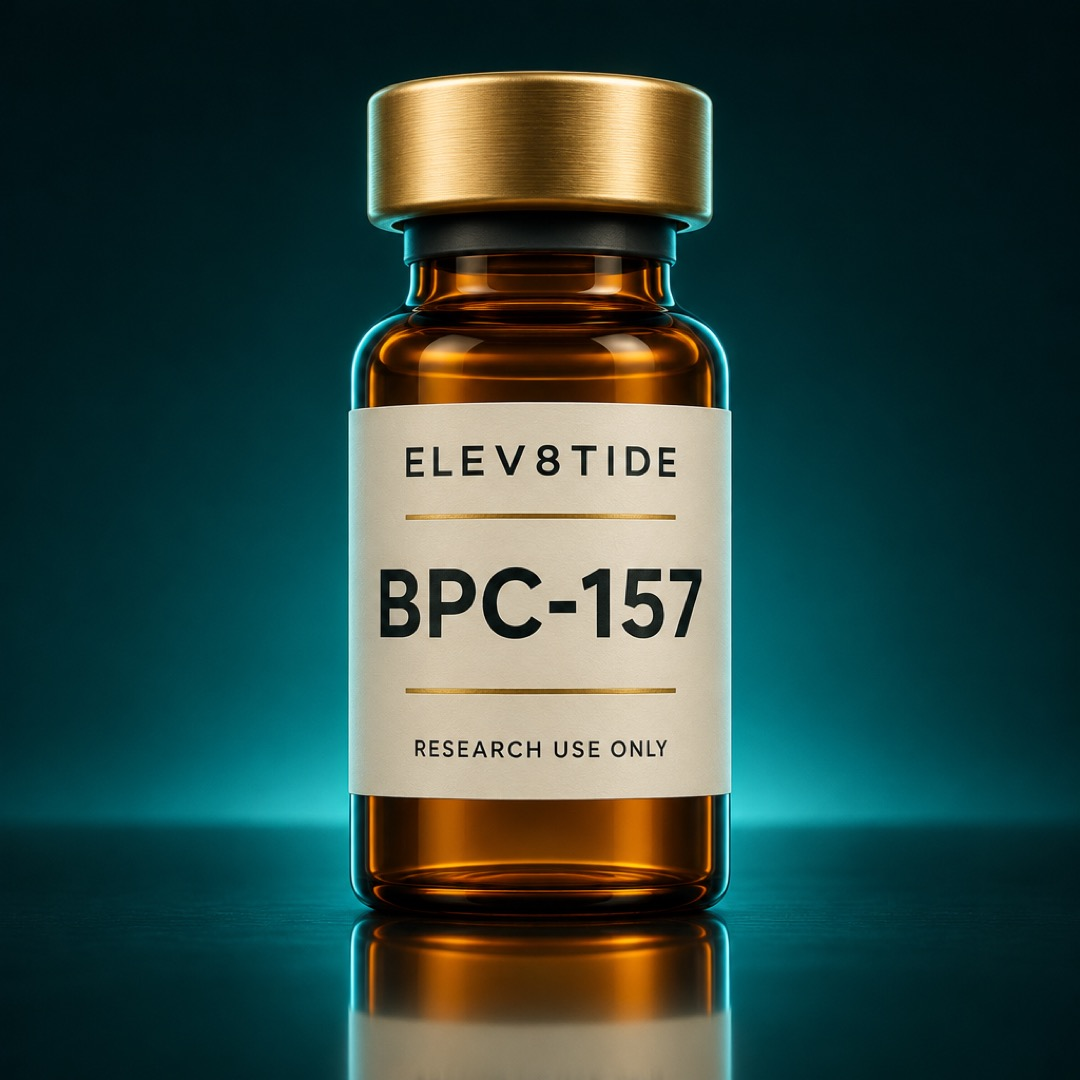
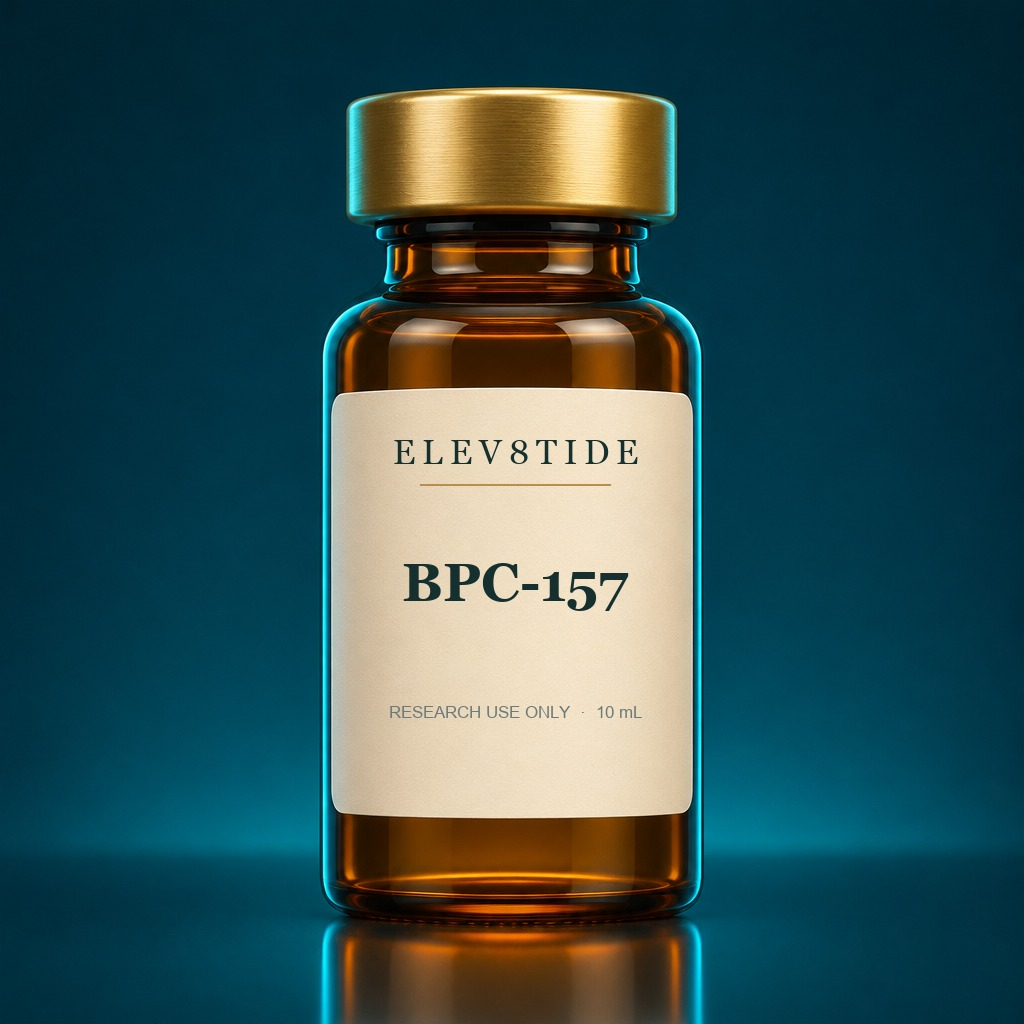
capsules: clean blue-teal vial w/ guaranteed-correct ELEV8TIDE brand label (PIL-composited, no AI garble) across all 16 products; + red Limited Time sale badge + Save $X on discounted stacks

diff --git a/lab.html b/lab.html
@@ -241,6 +241,8 @@ body{font-family:'Jost',sans-serif;background:#05090C;color:var(--ink);overflow:
 .l2card .adc{width:38px;height:38px;border:1px solid var(--bd);border-radius:50%;display:flex;align-items:center;justify-content:center;color:var(--ink2);background:none;cursor:pointer;transition:.2s;flex-shrink:0}
 .l2card .adc:hover{border-color:var(--champ);color:var(--champ)}
 .l2card .adc svg{width:17px;height:17px}
+.l2card .sale{position:absolute;top:10px;right:10px;z-index:2;font-family:'Inter',sans-serif;font-size:9px;letter-spacing:.6px;text-transform:uppercase;font-weight:700;color:#fff;background:#C62828;padding:4px 9px;border-radius:30px;box-shadow:0 3px 10px rgba(198,40,40,.45)}
+.l2card .save{color:#E24A4A;font-weight:600;font-size:12px;margin-left:6px}
 .l2catsub{font-family:'Inter',sans-serif;font-size:12px;letter-spacing:2px;text-transform:uppercase;color:var(--mut2);margin:40px 0 16px;padding-bottom:10px;border-bottom:1px solid var(--bd)}
 .l2catsub:first-child{margin-top:0}
 /* footer */
@@ -679,9 +681,9 @@ function renderCatalog(){
   GOALS.forEach(function(g,gi){
     g.products.forEach(function(p,pi){
       h+='<div class="l2card" onclick="openDetail('+gi+','+pi+')">'+
-         '<div class="im"><span class="tag">Research Use</span><img src="'+p.img+'" alt="'+p.n+'" loading="lazy"></div>'+
+         '<div class="im"><span class="tag">Research Use</span>'+(p.reg?'<span class="sale">Limited Time</span>':'')+'<img src="'+p.img+'" alt="'+p.n+'" loading="lazy"></div>'+
          '<div class="bd"><div class="nm">'+p.n+'</div><div class="ds">'+p.f+'</div>'+
-         '<div class="row"><div class="pr">'+(p.reg?'<span class="reg">$'+p.reg+'</span>':'')+'$'+p.p+'</div>'+
+         '<div class="row"><div class="pr">'+(p.reg?'<span class="reg">$'+p.reg+'</span>':'')+'$'+p.p+(p.reg?'<span class="save">Save $'+(p.reg-p.p)+'</span>':'')+'</div>'+
          '<button class="adc" aria-label="Add to cart" onclick="quickAdd(event,'+gi+','+pi+')">'+CART_SVG+'</button></div></div></div>';
     });
   });
